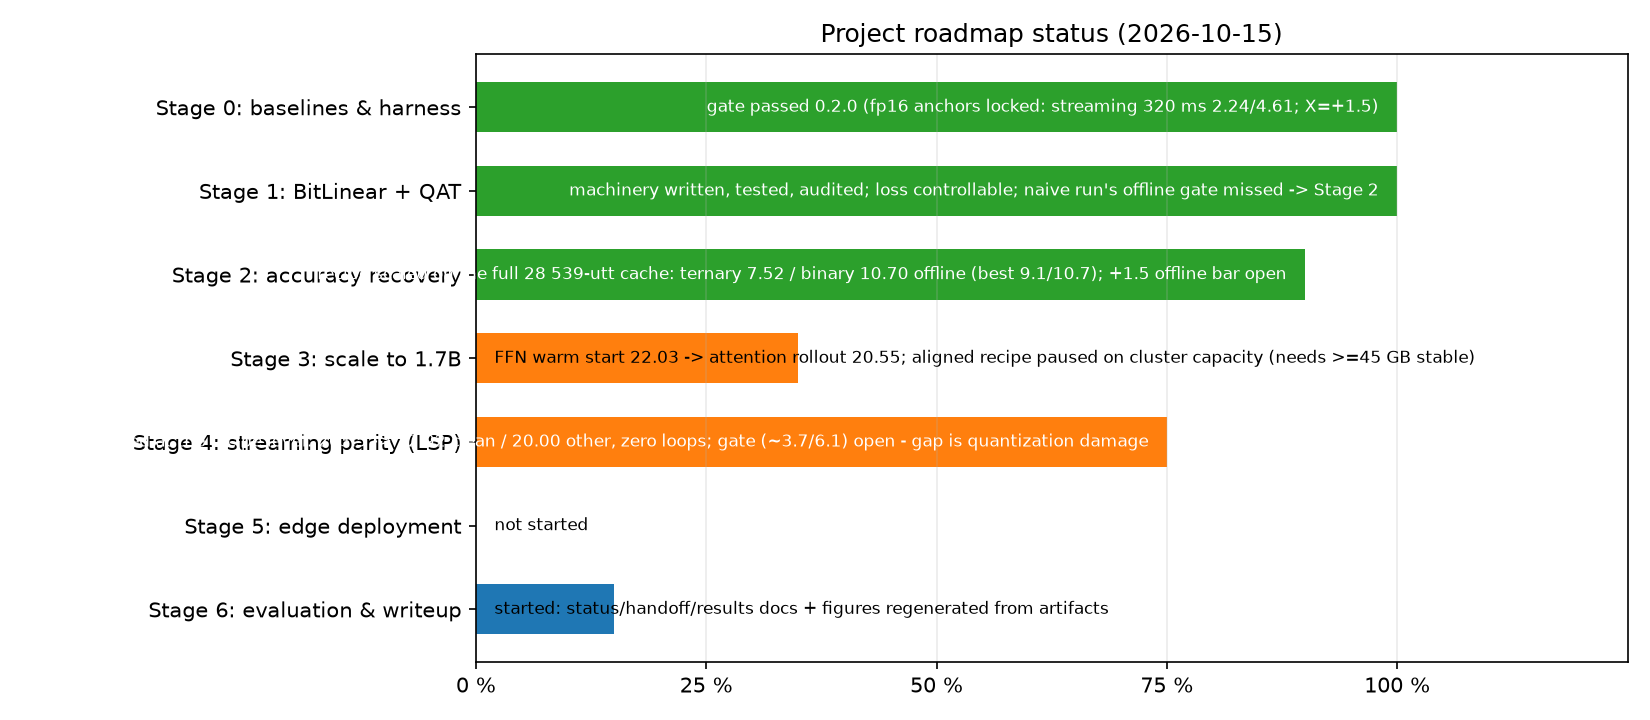
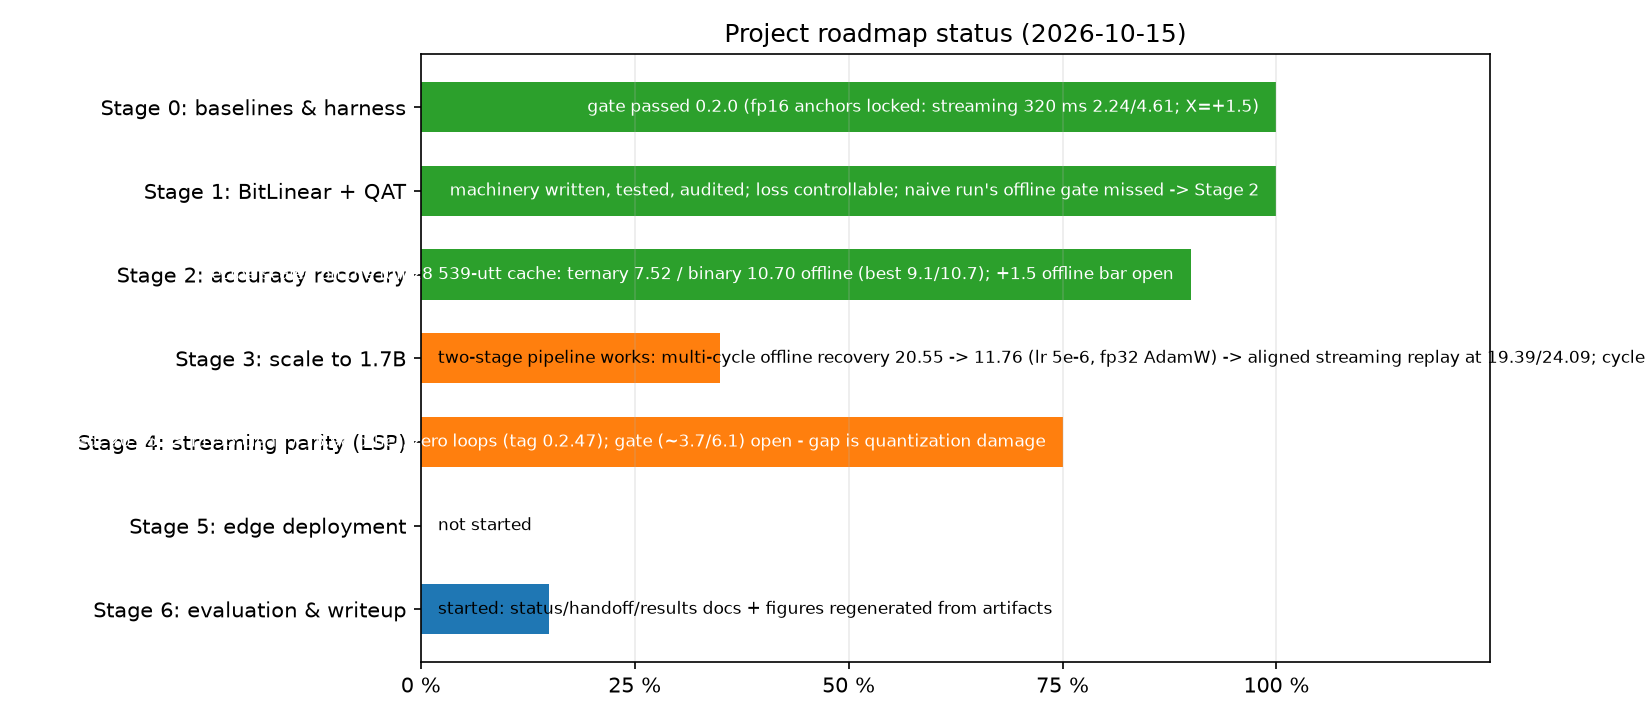
figure+fix: stage3_offline.png (the 1.7B's recovery trajectories) + the 1.7B evaluator now tags its outputs
The figure is generated from artifacts/stage3/*.log (the only reliable source:
several 1.7B evals overwrote each other's JSONs because the evaluator hardcoded
"streaming_17b4_*"). The evaluator now derives a TAG from the checkpoint
directory, so no two runs can collide; the two mislabelled files were traced
(they were aligned17b5's 19.39/24.09) and renamed. README carries the new
figure's full legend.

diff --git a/scripts/make_plots.py b/scripts/make_plots.py
@@ -427,6 +427,61 @@ def fig_streaming_results() -> dict:
                          "best_clean": best_clean, "best_other": best_other}}
 
 
+def fig_stage3_offline() -> dict:
+    """The 1.7B's offline recovery trajectories (Stage 3).
+
+    One line per run, read from ``artifacts/stage3/*.log``'s EVAL records — the
+    only reliable source (several runs overwrote each other's JSONs before the
+    evaluator learned to tag its outputs, see LAB_NOTES 2026-10-18).
+    The reference bar is the 0.6B's best offline (7.63): the line Stage 3's
+    recovery campaign is chasing with a bigger, harder model.
+    """
+    runs = [
+        ("qat_17b_ffn.log", "FFN warm start", "#c7c7c7", "-"),
+        ("qat_17b_attn5.log", "attention rollout", "#7f7f7f", "-"),
+        ("qat_17b_recover1.log", "recover1 (1.5e-6 + SR)", "#d62728", ":"),
+        ("qat_17b_recover2.log", "recover2 (1.5e-6)", "#ff7f0e", "-"),
+        ("qat_17b_recover4.log", "recover4 (1.5e-6, fp32)", "#bcbd22", "-"),
+        ("qat_17b_recover3.log", "recover3 (5e-6)", "#2ca02c", "-"),
+        ("qat_17b_recover5.log", "recover5 (5e-6, cycle 2)", "#1f77b4", "-"),
+        ("qat_17b_recover6.log", "recover6 (5e-6, cycle 3)", "#9467bd", "-"),
+        ("qat_stream_aligned17b5.log", "aligned replay on 16.53 base", "#17becf", "--"),
+        ("qat_stream_aligned17b6.log", "aligned replay on 11.76 base", "#000000", "--"),
+    ]
+    stage3 = ROOT / "artifacts" / "stage3"
+    data = {}
+    plt.figure(figsize=(11, 6))
+    for fname, label, color, style in runs:
+        path = stage3 / fname
+        if not path.exists():
+            continue
+        steps, values = [], []
+        with path.open(errors="ignore") as handle:
+            for line in handle:
+                if line.startswith("EVAL "):
+                    record = json.loads(line[5:])
+                    if record.get("ternary_wer") is not None:
+                        steps.append(int(record["step"]))
+                        values.append(float(record["ternary_wer"]))
+        if steps:
+            data[label] = {"steps": steps, "wer": values}
+            plt.plot(steps, values, marker="o", color=color, linestyle=style,
+                     label=label, linewidth=2)
+    plt.axhline(7.63, color="black", linestyle=":", linewidth=1.5,
+                label="0.6B's best offline (7.63) — the bar being chased")
+    plt.yscale("log")
+    plt.xlabel("training step")
+    plt.ylabel("offline ternary WER % (log scale, 50-utt test-clean)")
+    plt.title("Stage 3 — the 1.7B's offline recovery: one gentle schedule holds (~19-21); "
+              "lr 5e-6 descends (20.55 → 16.53 → 11.76)")
+    plt.grid(True, which="both", alpha=0.25)
+    plt.legend(fontsize=8)
+    plt.tight_layout()
+    plt.savefig(FIG / "stage3_offline.png", dpi=150)
+    plt.close()
+    return data
+
+
 def main() -> int:
     FIG.mkdir(parents=True, exist_ok=True)
     summary = {
@@ -437,6 +492,7 @@ def main() -> int:
         "fp16_drift": fig_fp16_drift(),
         "roadmap": fig_roadmap(),
         "streaming": fig_streaming_results(),
+        "stage3_offline": fig_stage3_offline(),
     }
     out = ART / "wer_summary.json"
     out.write_text(json.dumps(summary, indent=2), encoding="utf-8")

diff --git a/README.md b/README.md
@@ -252,6 +252,25 @@ always better. "50-utt" means a fixed 50-utterance `test-clean` slice (seed 0),
   binary** (and the binary run's *ternary* readout 9.75 — precision-mixing is
   a real measurement, not a runner).
 
+### 3.bis `stage3_offline.png` — the 1.7B's offline recovery (Stage 3)
+
+![Stage 3 offline recovery](docs/figures/stage3_offline.png)
+
+- **Axes:** x = training step; y = the **offline ternary readout** (50-utt
+  test-clean, log scale) — the metric the recovery campaign is judged by.
+- **Series:** one line per 1.7B run, read from `artifacts/stage3/*.log`'s EVAL
+  records: the FFN warm start and attention rollout (grey) plateau around
+  20–22; the four 1.5e-6 arms (red/orange/olive, including the SR arm's
+  dotted line) *hold station*; the lr-5e-6 cycles (green `recover3`, blue
+  `recover5`, purple `recover6`) descend 20.55 → 16.53 → 11.76 and continue;
+  the dashed cyan/black lines are the **aligned replays** (their offline dips
+  and recoveries show the streaming mix's cost and the base's resilience).
+- **Reference line:** the black dotted **7.63** — the 0.6B's own best offline,
+  i.e. the line the bigger model is chasing.
+- **Read it for:** the single clearest picture in the project of the finding
+  that unlocked Stage 3 — *the schedule, not the optimizer or the rounding, is
+  what moves a damaged model.*
+
 ### 4. `quantizer_error.png` — what quantization costs in weights
 
 ![Quantizer error](docs/figures/quantizer_error.png)
